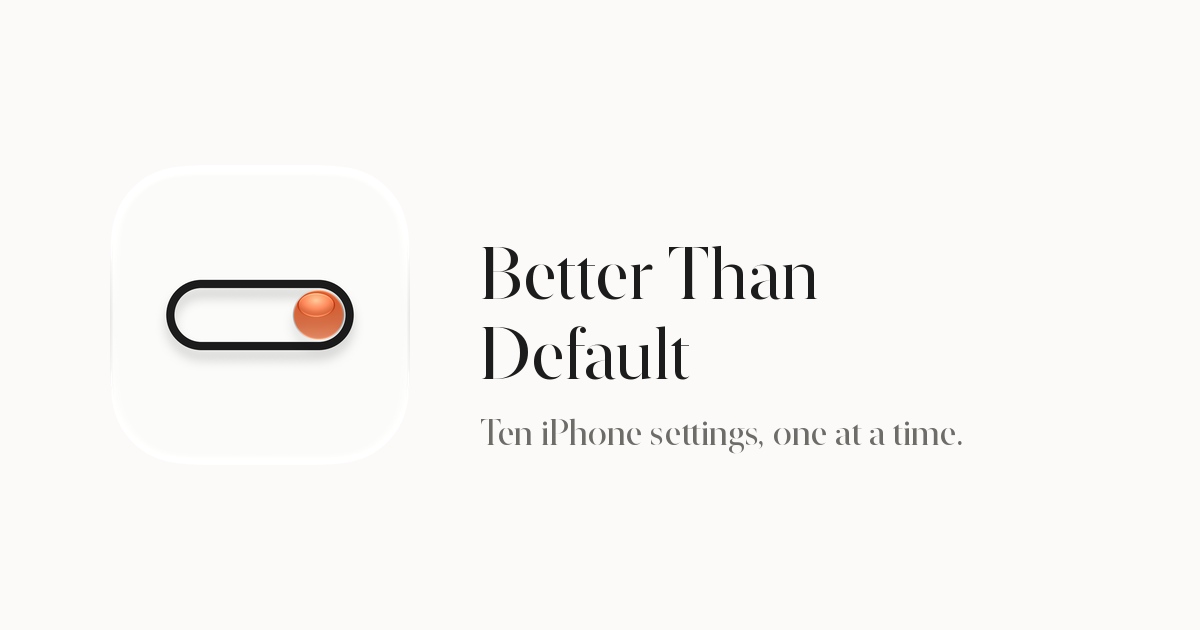
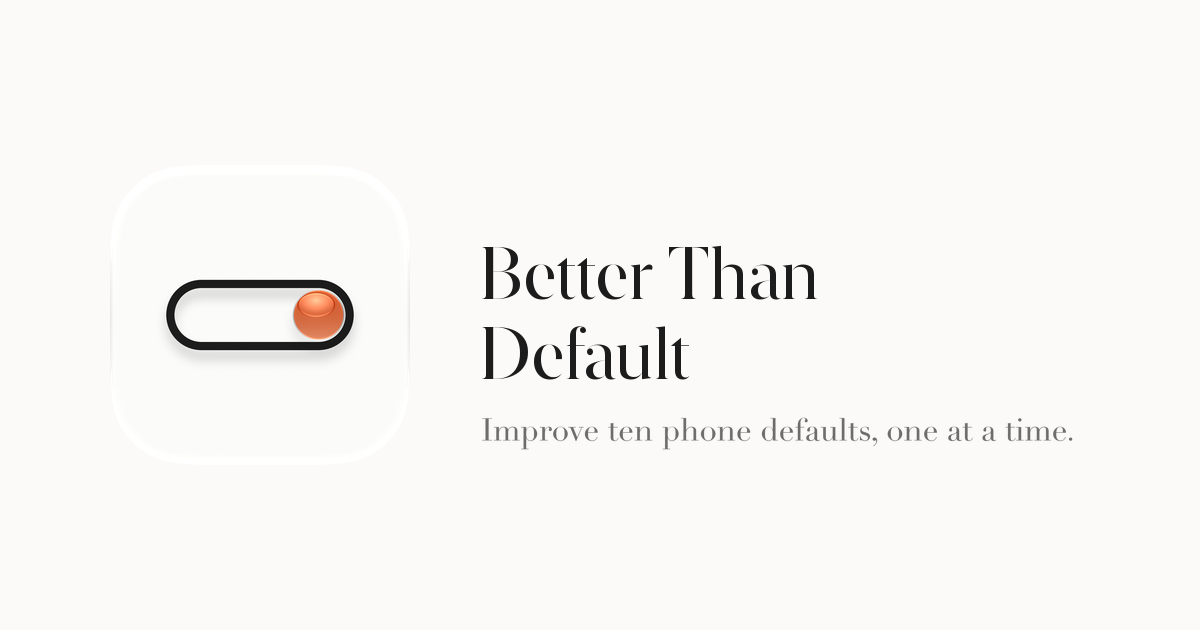
Juiste zin: improve ten phone defaults, ook in het deelbeeld

Changed region(s): [[0.4008, 0.6635, 0.8942, 0.7238]]

diff --git a/nl/index.html b/nl/index.html
@@ -6,15 +6,15 @@
 <meta http-equiv="Content-Security-Policy" content="default-src 'self'; img-src 'self' data:; style-src 'self'; font-src 'self'; script-src 'self'; connect-src 'self'; object-src 'none'; base-uri 'self'; form-action 'none'; upgrade-insecure-requests">
 <meta name="referrer" content="strict-origin-when-cross-origin">
 <title>Better Than Default</title>
-<meta name="description" content="Verander tien iPhone-instellingen, één voor één.">
+<meta name="description" content="Verbeter tien standaarden van je telefoon, één voor één.">
 <meta property="og:type" content="website">
 <meta property="og:site_name" content="Better Than Default">
 <meta property="og:locale" content="nl_NL">
 <meta property="og:title" content="Better Than Default">
-<meta property="og:description" content="Verander tien iPhone-instellingen, één voor één.">
+<meta property="og:description" content="Verbeter tien standaarden van je telefoon, één voor één.">
 <meta property="og:url" content="https://betterthandefault.app/nl/">
 <meta property="og:image" content="https://betterthandefault.app/assets/share.png">
-<meta property="og:image:alt" content="Better Than Default: ten iPhone settings, one at a time">
+<meta property="og:image:alt" content="Better Than Default: improve ten phone defaults, one at a time">
 <meta property="og:image:width" content="1200"><meta property="og:image:height" content="630">
 <meta name="twitter:card" content="summary_large_image">
 <link rel="canonical" href="https://betterthandefault.app/nl/">
@@ -30,7 +30,7 @@
 </header>
 <main id="main">
 <h1>Better Than Default</h1>
-<p>Je telefoon is ingesteld om je aandacht te trekken. Verander tien instellingen, één voor één.</p>
+<p>Je telefoon is ingesteld om je aandacht te trekken. Verbeter tien standaarden, één voor één.</p>
 </main>
 <footer><nav aria-label="Pagina’s"><a href="/nl/privacy/">Privacy</a><a href="/nl/support/">Hulp</a></nav></footer>
 </body>

diff --git a/index.html b/index.html
@@ -6,15 +6,15 @@
 <meta http-equiv="Content-Security-Policy" content="default-src 'self'; img-src 'self' data:; style-src 'self'; font-src 'self'; script-src 'self'; connect-src 'self'; object-src 'none'; base-uri 'self'; form-action 'none'; upgrade-insecure-requests">
 <meta name="referrer" content="strict-origin-when-cross-origin">
 <title>Better Than Default</title>
-<meta name="description" content="Change ten iPhone settings, one at a time.">
+<meta name="description" content="Improve ten phone defaults, one at a time.">
 <meta property="og:type" content="website">
 <meta property="og:site_name" content="Better Than Default">
 <meta property="og:locale" content="en_US">
 <meta property="og:title" content="Better Than Default">
-<meta property="og:description" content="Change ten iPhone settings, one at a time.">
+<meta property="og:description" content="Improve ten phone defaults, one at a time.">
 <meta property="og:url" content="https://betterthandefault.app/">
 <meta property="og:image" content="https://betterthandefault.app/assets/share.png">
-<meta property="og:image:alt" content="Better Than Default: ten iPhone settings, one at a time">
+<meta property="og:image:alt" content="Better Than Default: improve ten phone defaults, one at a time">
 <meta property="og:image:width" content="1200"><meta property="og:image:height" content="630">
 <meta name="twitter:card" content="summary_large_image">
 <link rel="canonical" href="https://betterthandefault.app/">
@@ -30,7 +30,7 @@
 </header>
 <main id="main">
 <h1>Better Than Default</h1>
-<p>Your phone came set up to grab your attention. Change ten settings, one at a time.</p>
+<p>Your phone came set up to grab your attention. Improve ten phone defaults, one at a time.</p>
 </main>
 <footer><nav aria-label="Pages"><a href="/privacy/">Privacy</a><a href="/support/">Support</a></nav></footer>
 </body>

diff --git a/nl/support/index.html b/nl/support/index.html
@@ -14,7 +14,7 @@
 <meta property="og:description" content="Contact en antwoorden op veelgestelde vragen over Better Than Default.">
 <meta property="og:url" content="https://betterthandefault.app/nl/support/">
 <meta property="og:image" content="https://betterthandefault.app/assets/share.png">
-<meta property="og:image:alt" content="Better Than Default: ten iPhone settings, one at a time">
+<meta property="og:image:alt" content="Better Than Default: improve ten phone defaults, one at a time">
 <meta property="og:image:width" content="1200"><meta property="og:image:height" content="630">
 <meta name="twitter:card" content="summary_large_image">
 <link rel="canonical" href="https://betterthandefault.app/nl/support/">

diff --git a/support/index.html b/support/index.html
@@ -14,7 +14,7 @@
 <meta property="og:description" content="Contact and answers to common questions about Better Than Default.">
 <meta property="og:url" content="https://betterthandefault.app/support/">
 <meta property="og:image" content="https://betterthandefault.app/assets/share.png">
-<meta property="og:image:alt" content="Better Than Default: ten iPhone settings, one at a time">
+<meta property="og:image:alt" content="Better Than Default: improve ten phone defaults, one at a time">
 <meta property="og:image:width" content="1200"><meta property="og:image:height" content="630">
 <meta name="twitter:card" content="summary_large_image">
 <link rel="canonical" href="https://betterthandefault.app/support/">

diff --git a/nl/privacy/index.html b/nl/privacy/index.html
@@ -14,7 +14,7 @@
 <meta property="og:description" content="Hoe Better Than Default je gegevens op je iPhone bewaart.">
 <meta property="og:url" content="https://betterthandefault.app/nl/privacy/">
 <meta property="og:image" content="https://betterthandefault.app/assets/share.png">
-<meta property="og:image:alt" content="Better Than Default: ten iPhone settings, one at a time">
+<meta property="og:image:alt" content="Better Than Default: improve ten phone defaults, one at a time">
 <meta property="og:image:width" content="1200"><meta property="og:image:height" content="630">
 <meta name="twitter:card" content="summary_large_image">
 <link rel="canonical" href="https://betterthandefault.app/nl/privacy/">

diff --git a/privacy/index.html b/privacy/index.html
@@ -14,7 +14,7 @@
 <meta property="og:description" content="How Better Than Default stores your data on your iPhone.">
 <meta property="og:url" content="https://betterthandefault.app/privacy/">
 <meta property="og:image" content="https://betterthandefault.app/assets/share.png">
-<meta property="og:image:alt" content="Better Than Default: ten iPhone settings, one at a time">
+<meta property="og:image:alt" content="Better Than Default: improve ten phone defaults, one at a time">
 <meta property="og:image:width" content="1200"><meta property="og:image:height" content="630">
 <meta name="twitter:card" content="summary_large_image">
 <link rel="canonical" href="https://betterthandefault.app/privacy/">

diff --git a/404.html b/404.html
@@ -14,7 +14,7 @@
 <meta property="og:description" content="This page could not be found. Return to Better Than Default.">
 <meta property="og:url" content="https://betterthandefault.app/">
 <meta property="og:image" content="https://betterthandefault.app/assets/share.png">
-<meta property="og:image:alt" content="Better Than Default: ten iPhone settings, one at a time">
+<meta property="og:image:alt" content="Better Than Default: improve ten phone defaults, one at a time">
 <meta property="og:image:width" content="1200"><meta property="og:image:height" content="630">
 <meta name="twitter:card" content="summary_large_image">
 <link rel="canonical" href="https://betterthandefault.app/404.html">
